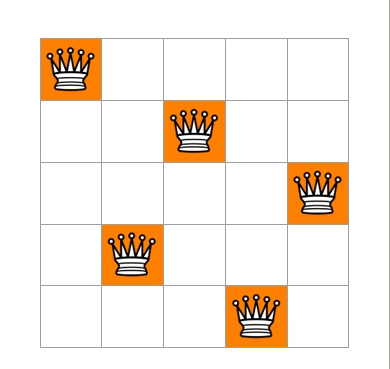
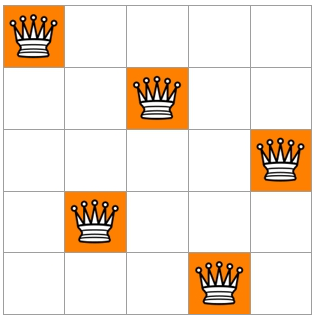
chessboard css

Changed region(s): [[0.0, 0.0, 1.0, 1.0]]

diff --git a/assets/css/style.css b/assets/css/style.css
@@ -88,8 +88,8 @@ body{
   background-color: white;
   margin-top: 10px;
   margin-bottom: 10%;
-  margin-right: 10%;
-  margin-left: 16%;
+  margin-right: auto;
+  margin-left: auto;
 }
 
 .content h3{
@@ -163,5 +163,7 @@ body{
   padding: 10px 10px;
 }
 #chessboard{
-  text-align: center;
+  display: block;
+  margin-left: auto;
+  margin-right: auto;
 }
